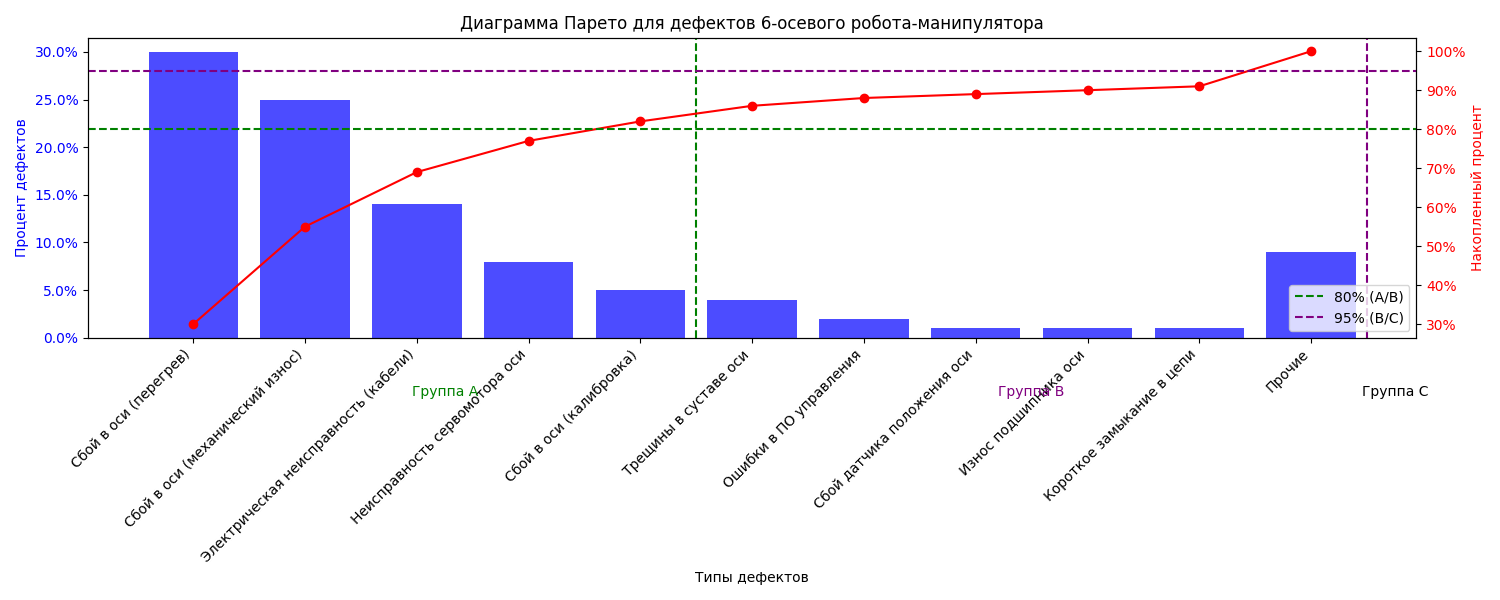
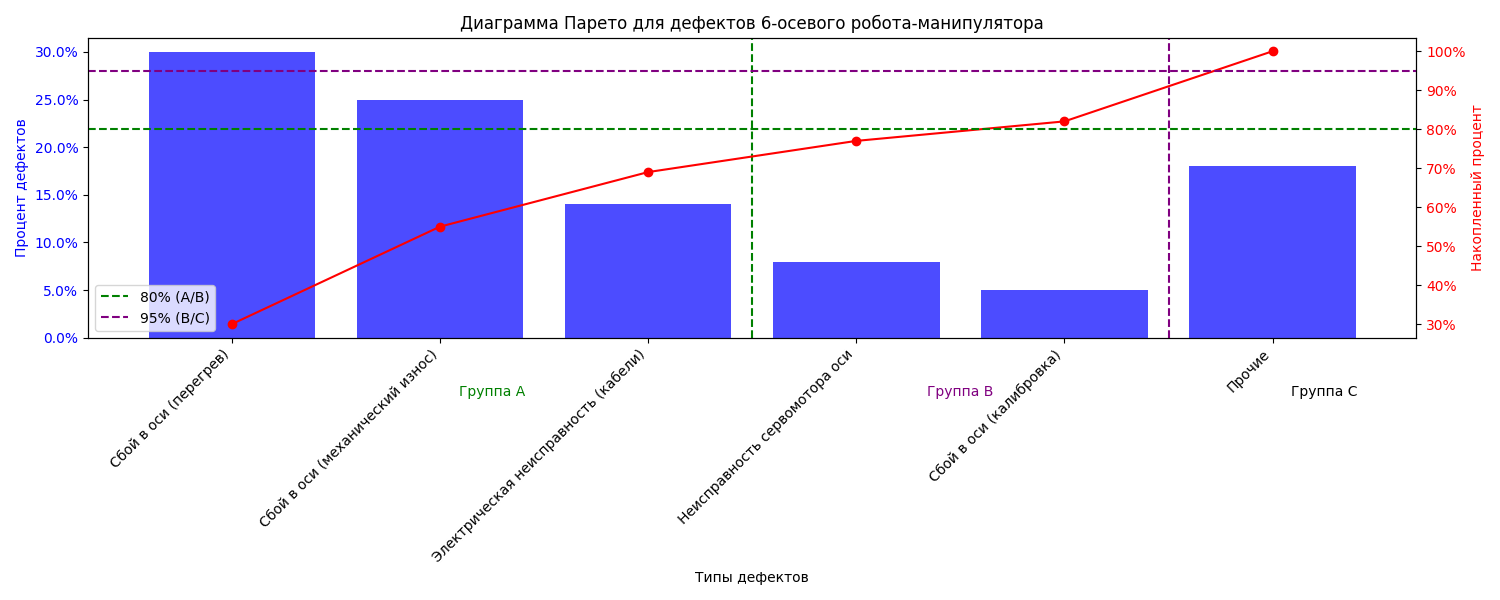
.

diff --git a/pareto.py b/pareto.py
@@ -9,7 +9,7 @@ df = pd.read_csv('defects.csv')
 df = df.sort_values(by='Число дефектов', ascending=False).reset_index(drop=True)
 
 # Объединение редких дефектов в "Прочие" (увеличили top_n до 10 для показа большего количества столбцов)
-top_n = 10
+top_n = 5
 main_defects = df.iloc[:top_n]
 other_defects = df.iloc[top_n:]
 other_row = pd.DataFrame({
@@ -49,8 +49,8 @@ ax2.legend()
 
 # Добавление вертикальных разделителей для групп ABC
 # Находим позиции (индексы), где накопленный процент впервые превышает пороги
-a_end = df[df['Накопленный процент'] >= 80].index[0] + 0.5  # Граница A/B
-b_end = df[df['Накопленный процент'] >= 95].index[0] + 0.5  # Граница B/C
+a_end = df[df['Накопленный процент'] >= 60].index[0] + 0.5  # Граница A/B
+b_end = df[df['Накопленный процент'] >= 80].index[0] + 0.5  # Граница B/C
 
 # Рисуем вертикальные линии
 ax1.axvline(x=a_end, color='g', linestyle='--', label='Граница A/B')
